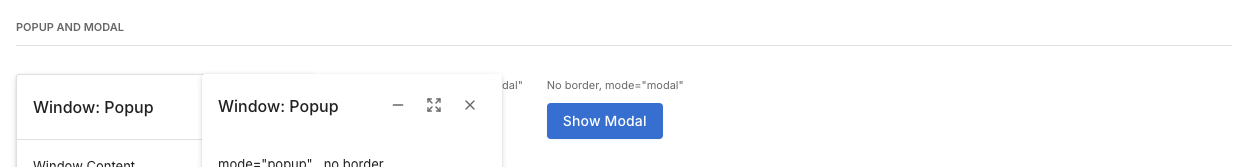
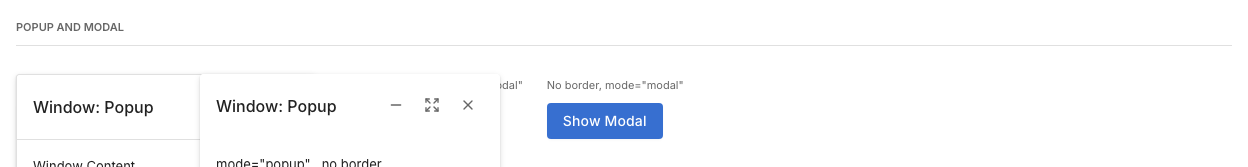
ZK-6112: add a metric-matched Inter fallback so sizedByContent columns are not cut when the web font loads late
ZK measures a widget once at mount. With the system fallback narrower than Inter, a sizedByContent cell was cut by an ellipsis whenever Inter arrived after that measurement (a 150 ms font delay gave 8/8 on a one-listbox page, 0/8 now). The fallback face is limited to Inter's latin unicode-range so Arial does not draw arrows and symbols Inter lacks. Re-cuts the splitter, window-04 popup and toolbar overflow baselines whose mount-time measurement is now closer to Inter.

Changed region(s): [[0.1562, 0.5988, 0.2812, 0.6886], [0.1562, 0.9581, 0.3125, 1.0], [0.3438, 0.5988, 0.4062, 0.6587]]

diff --git a/zul/src/main/resources/web/zul/css/tokens/_fonts.css b/zul/src/main/resources/web/zul/css/tokens/_fonts.css
@@ -24,3 +24,27 @@
     src: url("~./zul/font/inter-latin-ext-variable.woff2") format("woff2");
     unicode-range: U+0100-02BA, U+02BD-02C5, U+02C7-02CC, U+02CE-02D7, U+02DD-02FF, U+0304, U+0308, U+0329, U+1D00-1DBF, U+1E00-1E9F, U+1EF2-1EFF, U+2020, U+20A0-20AB, U+20AD-20C0, U+2113, U+2C60-2C7F, U+A720-A7FF;
 }
+
+/* Metric-matched fallback for Inter. ZK measures a widget once when it mounts (a sizedByContent
+   column, the Tabs scroll width) and does not measure again when a web font arrives, so text
+   laid out in the fallback face and then redrawn in Inter would overflow what was measured: a
+   sizedByContent cell is cut by an ellipsis whenever Inter takes longer than ZK's first
+   measurement (a 150 ms font delay is enough; reproduced with a one-listbox page). This face
+   makes the fallback about as wide as Inter, so the measurement stays close to the final width.
+   It is only used until Inter has loaded and needs no download: local() takes the installed
+   Arial (or its metric-compatible Liberation Sans); where neither exists the face is skipped and
+   the stack falls through to the next family as before. The values scale Arial to Inter's
+   average advance width and line metrics; text dominated by narrow glyphs (i, l) can still end
+   up slightly wider in Inter than measured. Listed after 'Inter' in --zk-typescale-font-family.
+   The unicode-range is Inter's latin range: without it Arial would also draw the characters
+   Inter does not cover (an arrow such as U+2192) instead of the next family in the stack, which
+   changed how they look. */
+@font-face {
+    font-family: 'Inter Fallback';
+    src: local('Arial'), local('Liberation Sans');
+    size-adjust: 107.4%;
+    ascent-override: 90.2%;
+    descent-override: 22.5%;
+    line-gap-override: 0%;
+    unicode-range: U+0000-00FF, U+0131, U+0152-0153, U+02BB-02BC, U+02C6, U+02DA, U+02DC, U+0304, U+0308, U+0329, U+2000-206F, U+20AC, U+2122, U+2191, U+2193, U+2212, U+2215, U+FEFF, U+FFFD;
+}

diff --git a/zul/src/main/resources/web/zul/css/tokens/_typography.css b/zul/src/main/resources/web/zul/css/tokens/_typography.css
@@ -1,7 +1,7 @@
 /* MD3 Typography Tokens — --zk-typescale-* — Inter font family */
 :root {
     /* Font families */
-    --zk-typescale-font-family: 'Inter', -apple-system, BlinkMacSystemFont,
+    --zk-typescale-font-family: 'Inter', 'Inter Fallback', -apple-system, BlinkMacSystemFont,
         'Segoe UI', Roboto, 'Helvetica Neue', Arial, sans-serif;
     --zk-typescale-mono-family: 'SFMono-Regular', Consolas, 'Liberation Mono',
         Menlo, Courier, monospace;

diff --git a/doc/spec/DESIGN.md b/doc/spec/DESIGN.md
@@ -120,7 +120,7 @@ Cards have elevation only — no border. Use outlined variant (`1px solid outlin
 | Page title | 24px | 600 | (`MuiTypography-h3`) |
 | KPI value | 24px | 400 | (`MuiBox` with custom font-size) |
 
-Font family: **Inter** (system sans-serif fallback stack). Token: `--zk-typescale-font-family`.  
+Font family: **Inter**, then `Inter Fallback` (Arial scaled to Inter's metrics, used only until Inter has loaded; see §7), then the system sans-serif stack. Token: `--zk-typescale-font-family`.  
 Marble targets a denser scale than standard MD3 (aligned to MUI v7) — prefer 13–14px body rather than 16px.
 
 **CSS class-naming convention — `z-` vs `m-` prefix.** The `z-` prefix is for
@@ -137,6 +137,7 @@ component CSS.
 Rationale:
 - **Self-host over CDN** — the CDN `@import` failed in air-gapped installs and leaked end-user IPs to Google (GDPR). Self-hosting is offline-safe and same-origin.
 - **Self-host over system-font stack** — Marble is calibrated against the MUI v7 reference and has Playwright visual-regression tests; a system-font stack drifts per OS, destabilizing baselines and table layouts. A bundled font gives one reproducible look on every client and in CI.
+- **Metric-matched fallback (`Inter Fallback`)** — ZK measures a widget once at mount and never again when a web font arrives, so a `sizedByContent` column was cut by an ellipsis whenever Inter loaded after ZK's first measurement (a 150 ms font delay is enough). `_fonts.css` defines a fallback face from the installed Arial (`size-adjust` 107.4% and matching line metrics) that sits right after `Inter` in `--zk-typescale-font-family`, so the measured width stays close to the final one. Measured on a one-listbox page: with a 150–1000 ms font delay 8/8 loads were cut without it and 0/8 with it; on a stress set of seven strings, 5 of 7 columns were cut without it and 1 of 7 (narrow glyphs) with it. `<link rel=preload>` (the font was fetched twice: the preload URL carries `;jsessionid`) and an inline data-URI font did not help. Weights 500, 600 and 700 (headers, cells) were not cut either with a 300 ms font delay, so the face is declared for the regular weight only. Where neither Arial nor Liberation Sans is installed the face is skipped and the stack behaves as before; if Inter never loads, text stays in the scaled Arial instead of the native UI font. ZK-4243 records the core position that waiting for web fonts is not ZK's job.
 - **Inter over Roboto** (MD3's canonical face) — Marble's MUI-aligned reference uses Inter; Inter's tall x-height + open apertures also read better at the 13–14px dense-table sizes this theme targets. The fallback stack still degrades gracefully to each OS's native UI font if Inter never loads.
 
 **Deprecated font library-properties — intentionally absent (do not re-add).** ZK's `org.zkoss.zul.theme.fontFamily*` and `org.zkoss.zul.theme.fontSize*` library properties have been **deprecated since ZK 7.0.0** (superseded by LESS, and now by CSS custom properties). Marble sets **zero** library properties of any kind — all typography is driven by the `--zk-typescale-*` tokens in `zul/css/tokens/_typography.css`. Their absence is a deliberate modern-CSS design choice, **not** a gap: do not introduce these properties to "configure" fonts. To change a face or size, edit the token, not a `<library-property>`. (Gap-review finding lane D / P3-1, 2026-06-26.)
